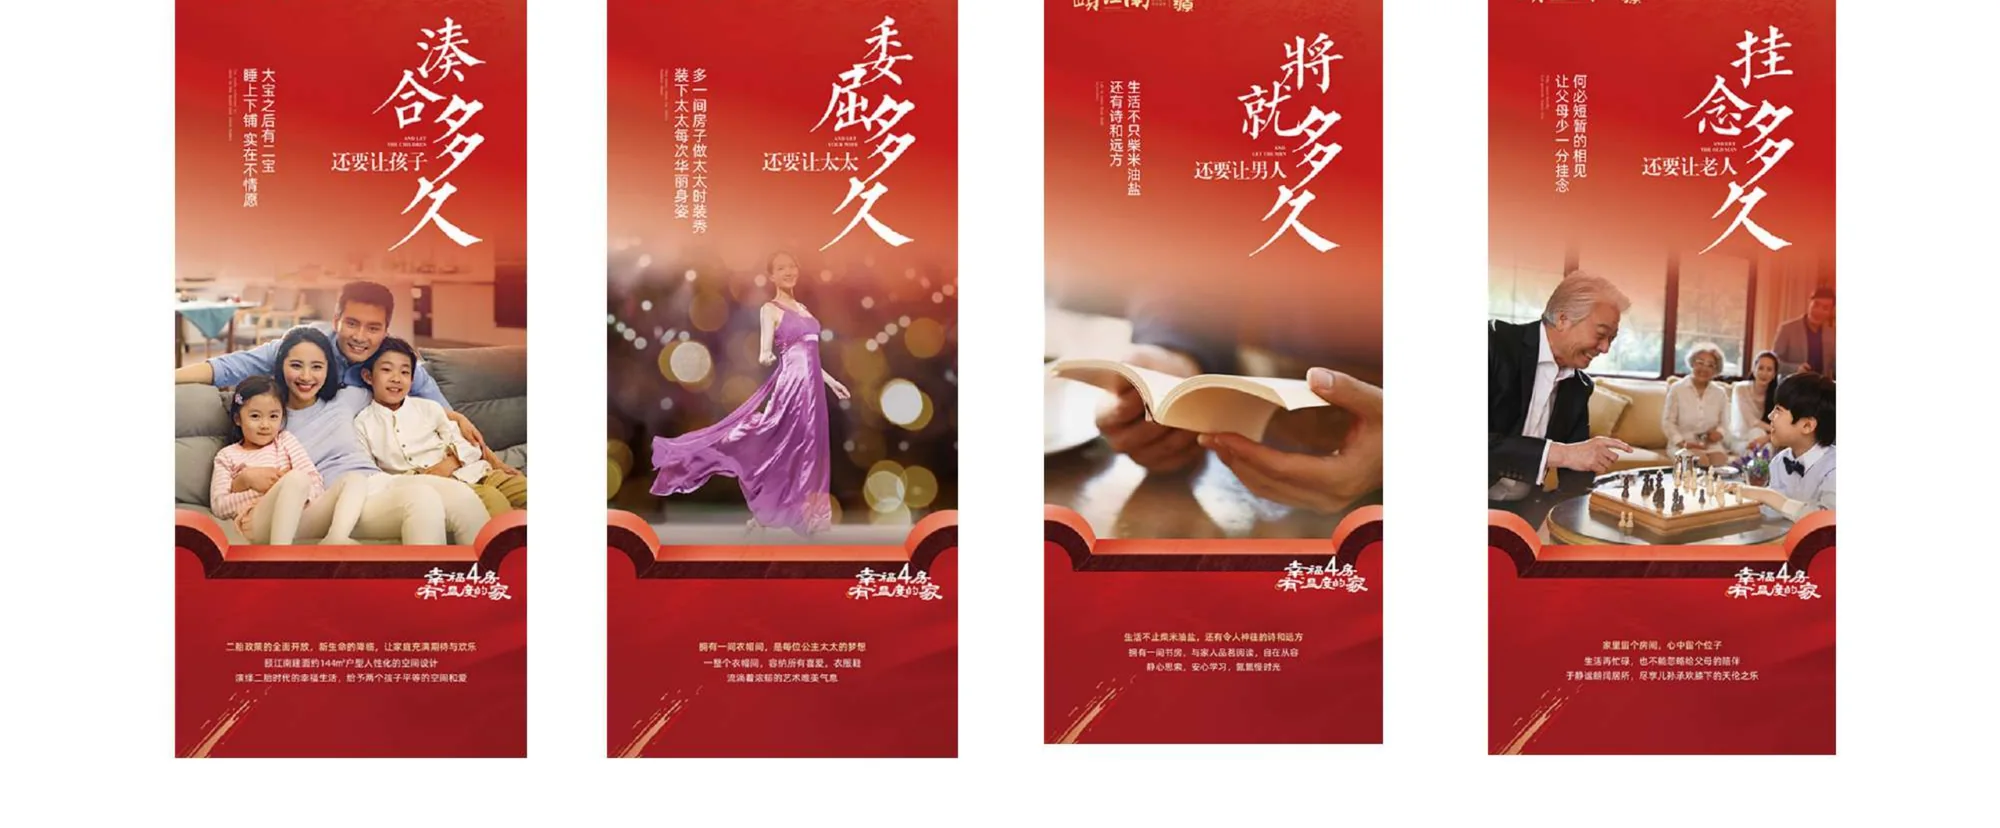
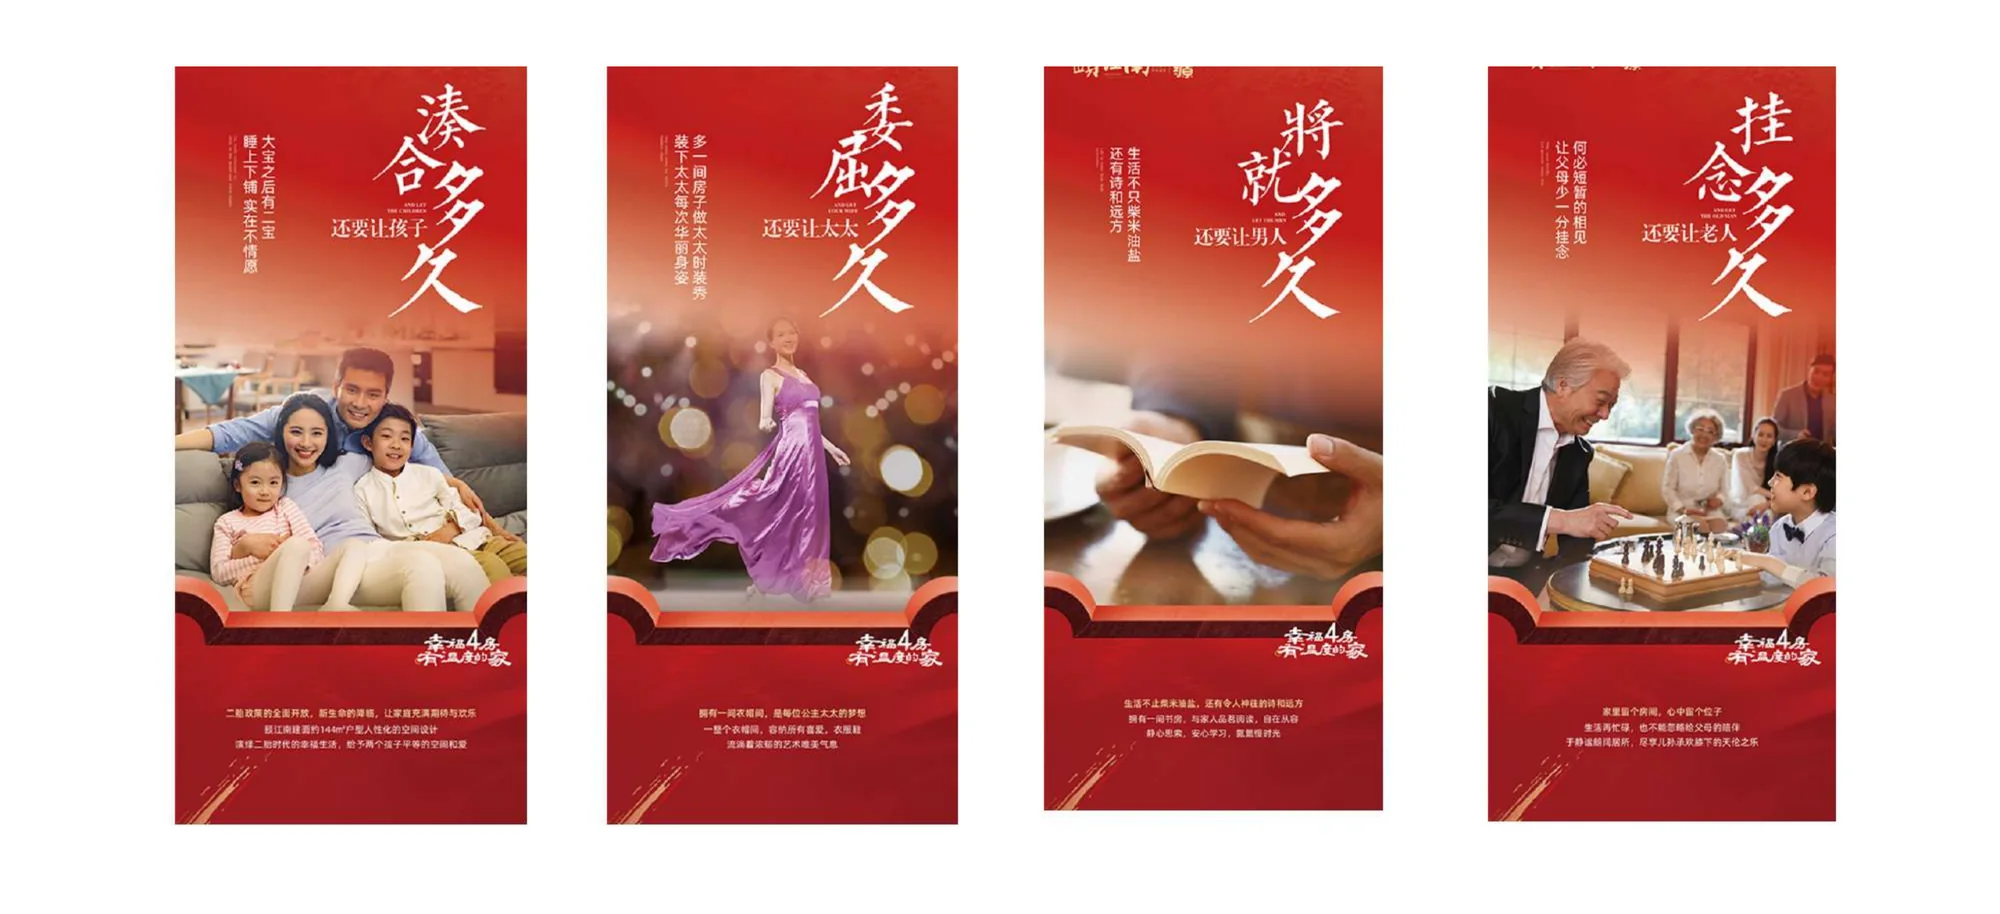
fix: restore spacing around real estate boards

diff --git a/app/globals.css b/app/globals.css
@@ -560,7 +560,7 @@ footer > span { color: var(--muted); font-size: 10px; }
 .real-estate-rail { display: grid; grid-auto-flow: column; grid-auto-columns: minmax(340px, 38%); gap: 14px; overflow-x: auto; padding: 26px 2px 20px; scroll-snap-type: x mandatory; scrollbar-color: #a99f91 transparent; scrollbar-width: thin; }
 .real-estate-rail figure { min-width: 0; margin: 0; scroll-snap-align: start; }
 .real-estate-preview { position: relative; display: block; width: 100%; overflow: hidden; padding: 0; border: 0; background: #fff; color: inherit; cursor: zoom-in; text-align: left; }
-.real-estate-preview img { display: block; width: 100%; aspect-ratio: 2.4 / 1; border: 1px solid rgb(24 57 103 / 10%); background: #fff; object-fit: cover; box-shadow: 0 14px 34px rgb(33 48 67 / 9%); transition: transform .5s cubic-bezier(.16,1,.3,1), filter .5s ease; }
+.real-estate-preview img { display: block; width: 100%; aspect-ratio: 2.19 / 1; border: 1px solid rgb(24 57 103 / 10%); background: #fff; object-fit: cover; box-shadow: 0 14px 34px rgb(33 48 67 / 9%); transition: transform .5s cubic-bezier(.16,1,.3,1), filter .5s ease; }
 .real-estate-preview > span { position: absolute; right: 10px; bottom: 10px; padding: 7px 9px; background: rgb(8 39 68 / 86%); color: #fff; font-size: 8px; opacity: 0; transform: translateY(5px); transition: opacity .3s ease, transform .3s ease; }
 .real-estate-preview:hover img { filter: saturate(1.05); transform: scale(1.018); }
 .real-estate-preview:hover > span, .real-estate-preview:focus-visible > span { opacity: 1; transform: translateY(0); }

diff --git a/app/RealEstateShowcase.tsx b/app/RealEstateShowcase.tsx
@@ -16,7 +16,7 @@ const boards = [
   '品质住宅',
 ];
 
-const boardSrc = (index: number) => `${basePath}/works/real-estate/${String(index + 1).padStart(2, '0')}.webp?v=2`;
+const boardSrc = (index: number) => `${basePath}/works/real-estate/${String(index + 1).padStart(2, '0')}.webp?v=3`;
 
 export default function RealEstateShowcase() {
   const [selected, setSelected] = useState<number | null>(null);

diff --git a/scripts/prepare_real_estate_assets.py b/scripts/prepare_real_estate_assets.py
@@ -1,6 +1,6 @@
 from pathlib import Path
 
-from PIL import Image
+from PIL import Image, ImageOps
 
 
 SOURCE_DIR = Path(r"C:\Users\Administrator\Desktop\2022")
@@ -31,6 +31,8 @@ def main() -> None:
             # Remove the portfolio-template header (including the embedded year)
             # while preserving the original files on the desktop.
             image = image.crop((0, 760, image.width, image.height))
+            # Restore balanced breathing room around the cropped artwork.
+            image = ImageOps.expand(image, border=(0, 170, 0, 50), fill="white")
             if image.width > 2000:
                 height = round(image.height * 2000 / image.width)
                 image = image.resize((2000, height), Image.Resampling.LANCZOS)
